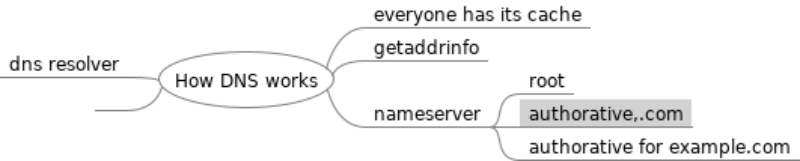
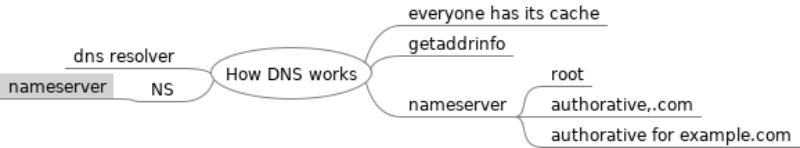
update lecture notes

Changed region(s): [[0.0, 0.0541, 0.7812, 0.7568], [0.4375, 0.5676, 1.0, 1.0], [0.6562, 0.4595, 0.75, 0.5405]]

diff --git a/How DNS works.mm b/How DNS works.mm
@@ -4,7 +4,9 @@
 <node CREATED="1650806713340" ID="ID_811491674" MODIFIED="1650806721904" POSITION="right" TEXT="everyone has its cache"/>
 <node CREATED="1650806722969" ID="ID_880992073" MODIFIED="1650806725735" POSITION="left" TEXT="dns resolver"/>
 <node CREATED="1650806731499" ID="ID_1685149245" MODIFIED="1650806782860" POSITION="right" TEXT="getaddrinfo"/>
-<node CREATED="1650806775043" ID="ID_1313831167" MODIFIED="1650806775043" POSITION="left" TEXT=""/>
+<node CREATED="1650806775043" ID="ID_1313831167" MODIFIED="1650806993822" POSITION="left" TEXT="NS">
+<node CREATED="1650806994263" ID="ID_1511763978" MODIFIED="1650806997840" TEXT="nameserver"/>
+</node>
 <node CREATED="1650806783711" ID="ID_1117091788" MODIFIED="1650806789917" POSITION="right" TEXT="nameserver">
 <node CREATED="1650806790187" ID="ID_77334318" MODIFIED="1650806791545" TEXT="root"/>
 <node CREATED="1650806791764" ID="ID_801728131" MODIFIED="1650806825485" TEXT="authorative,.com"/>
